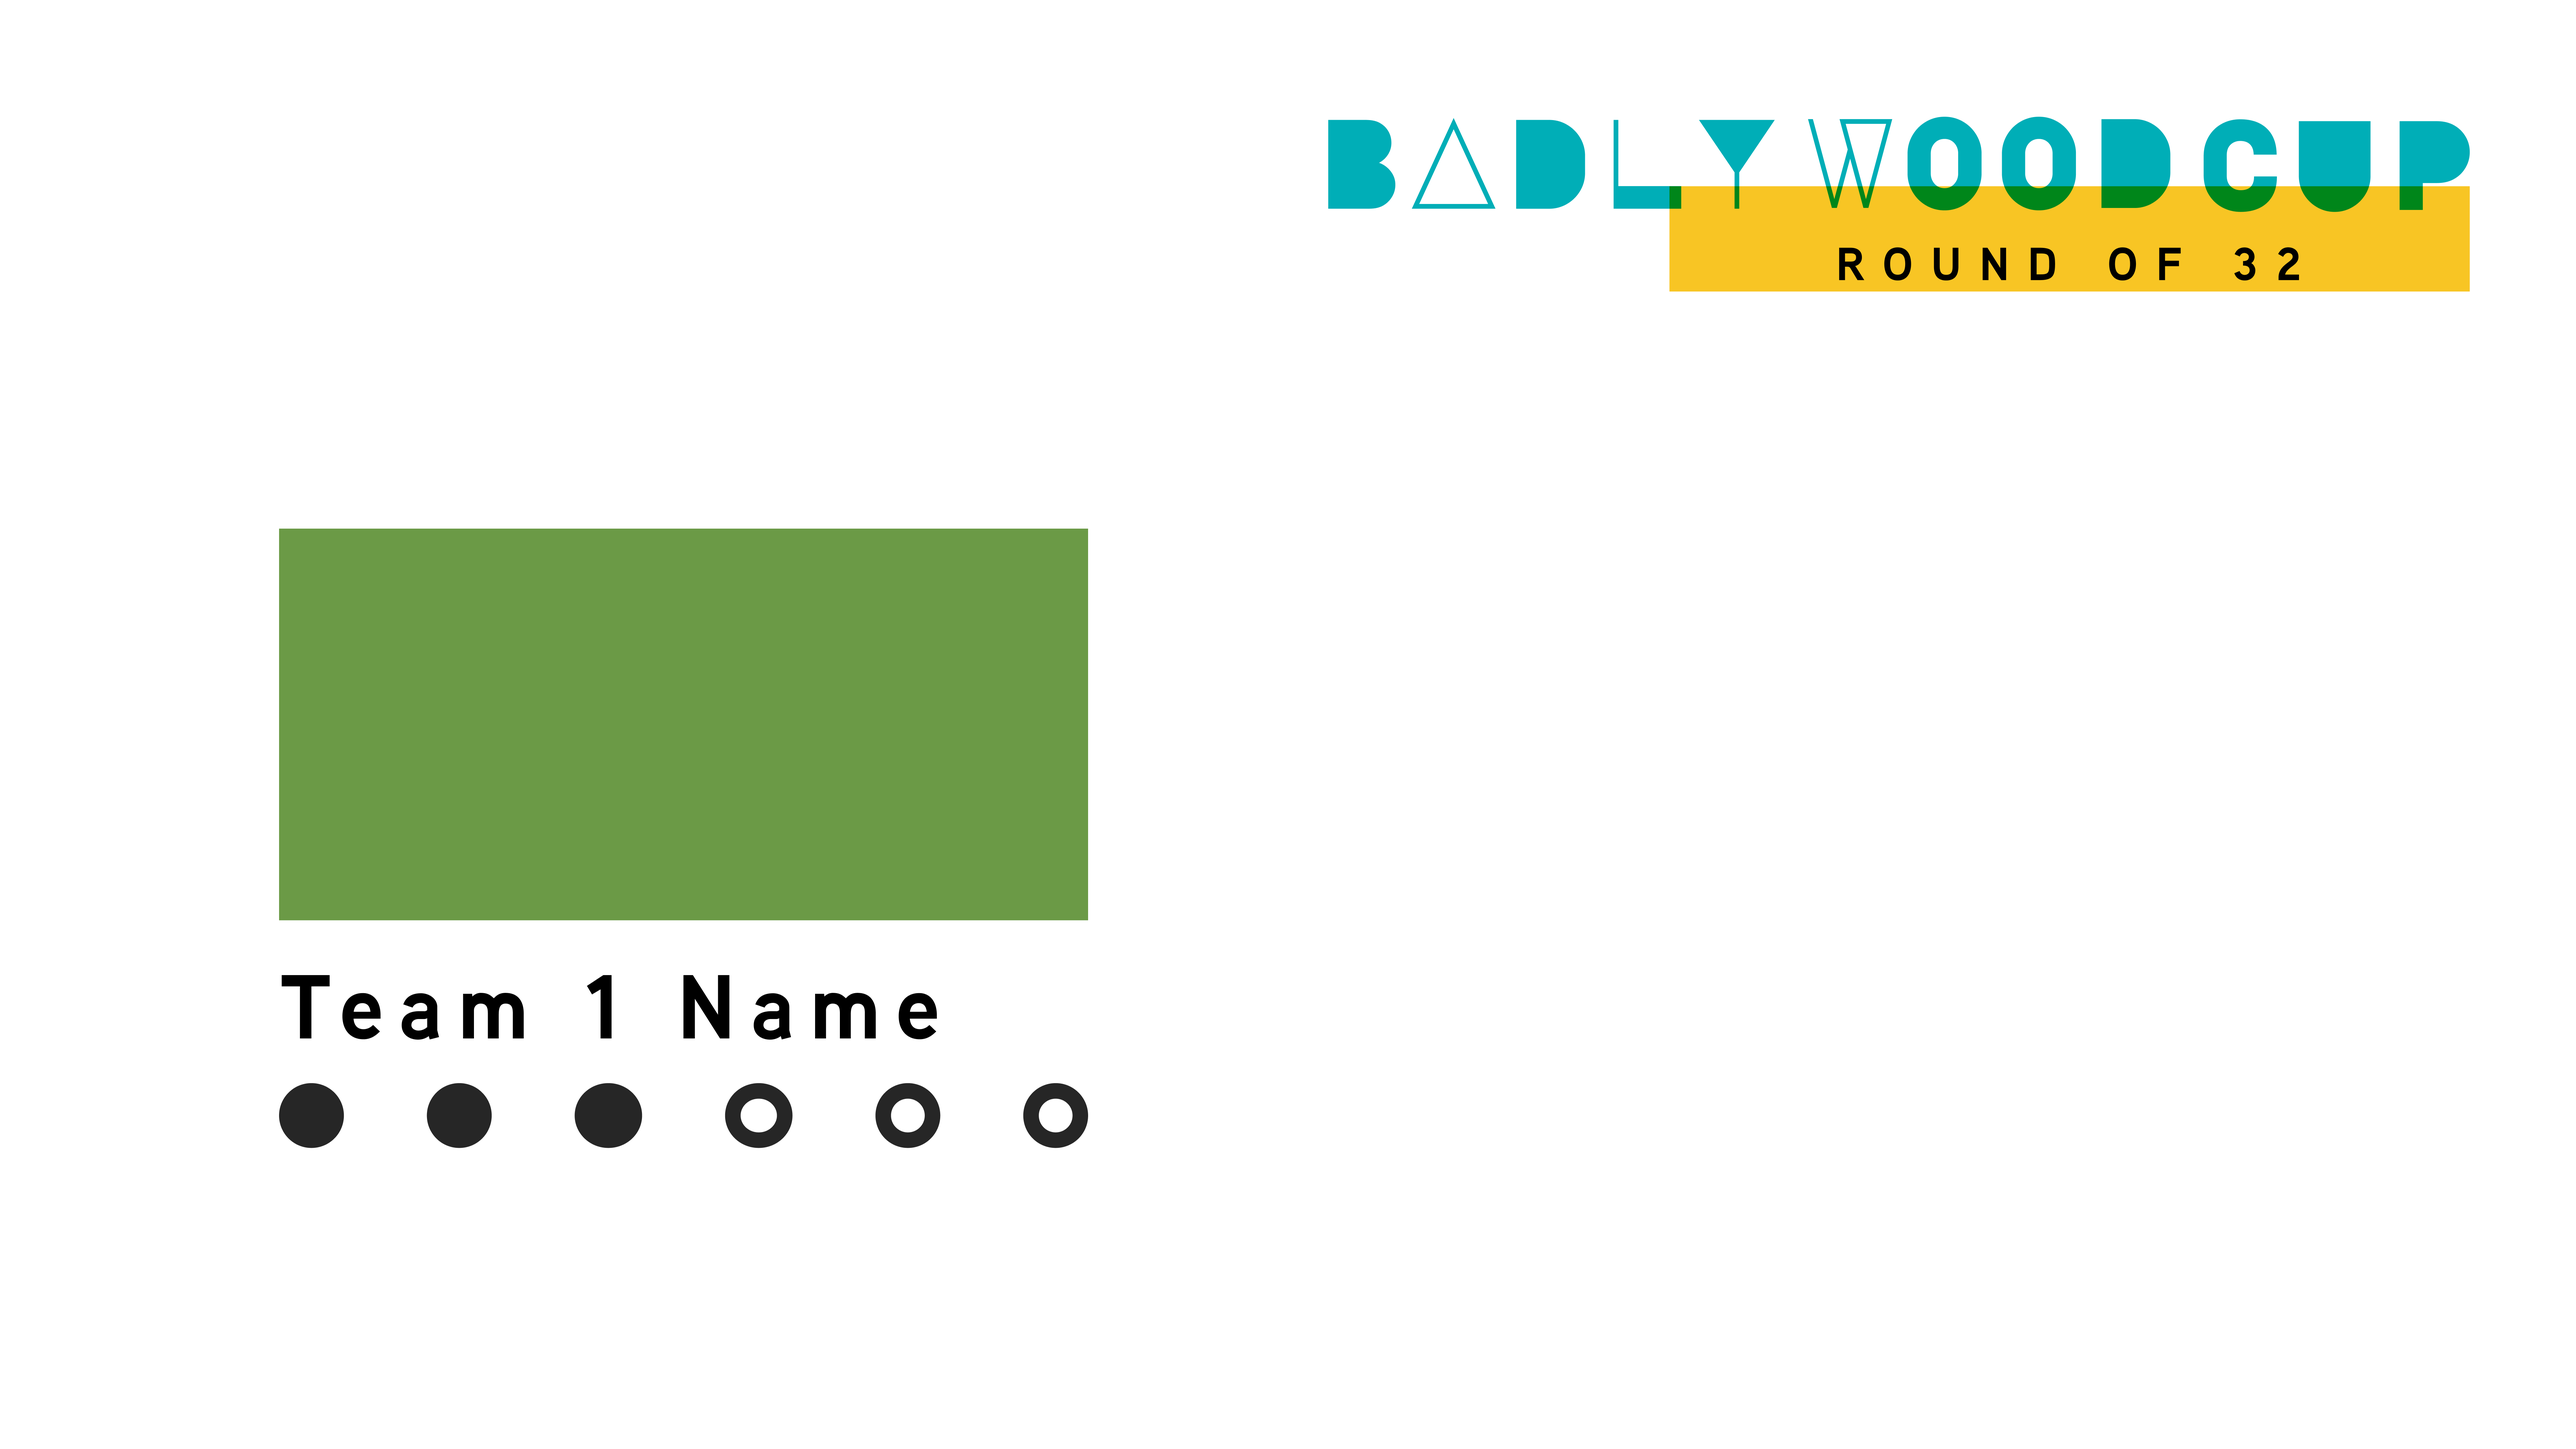
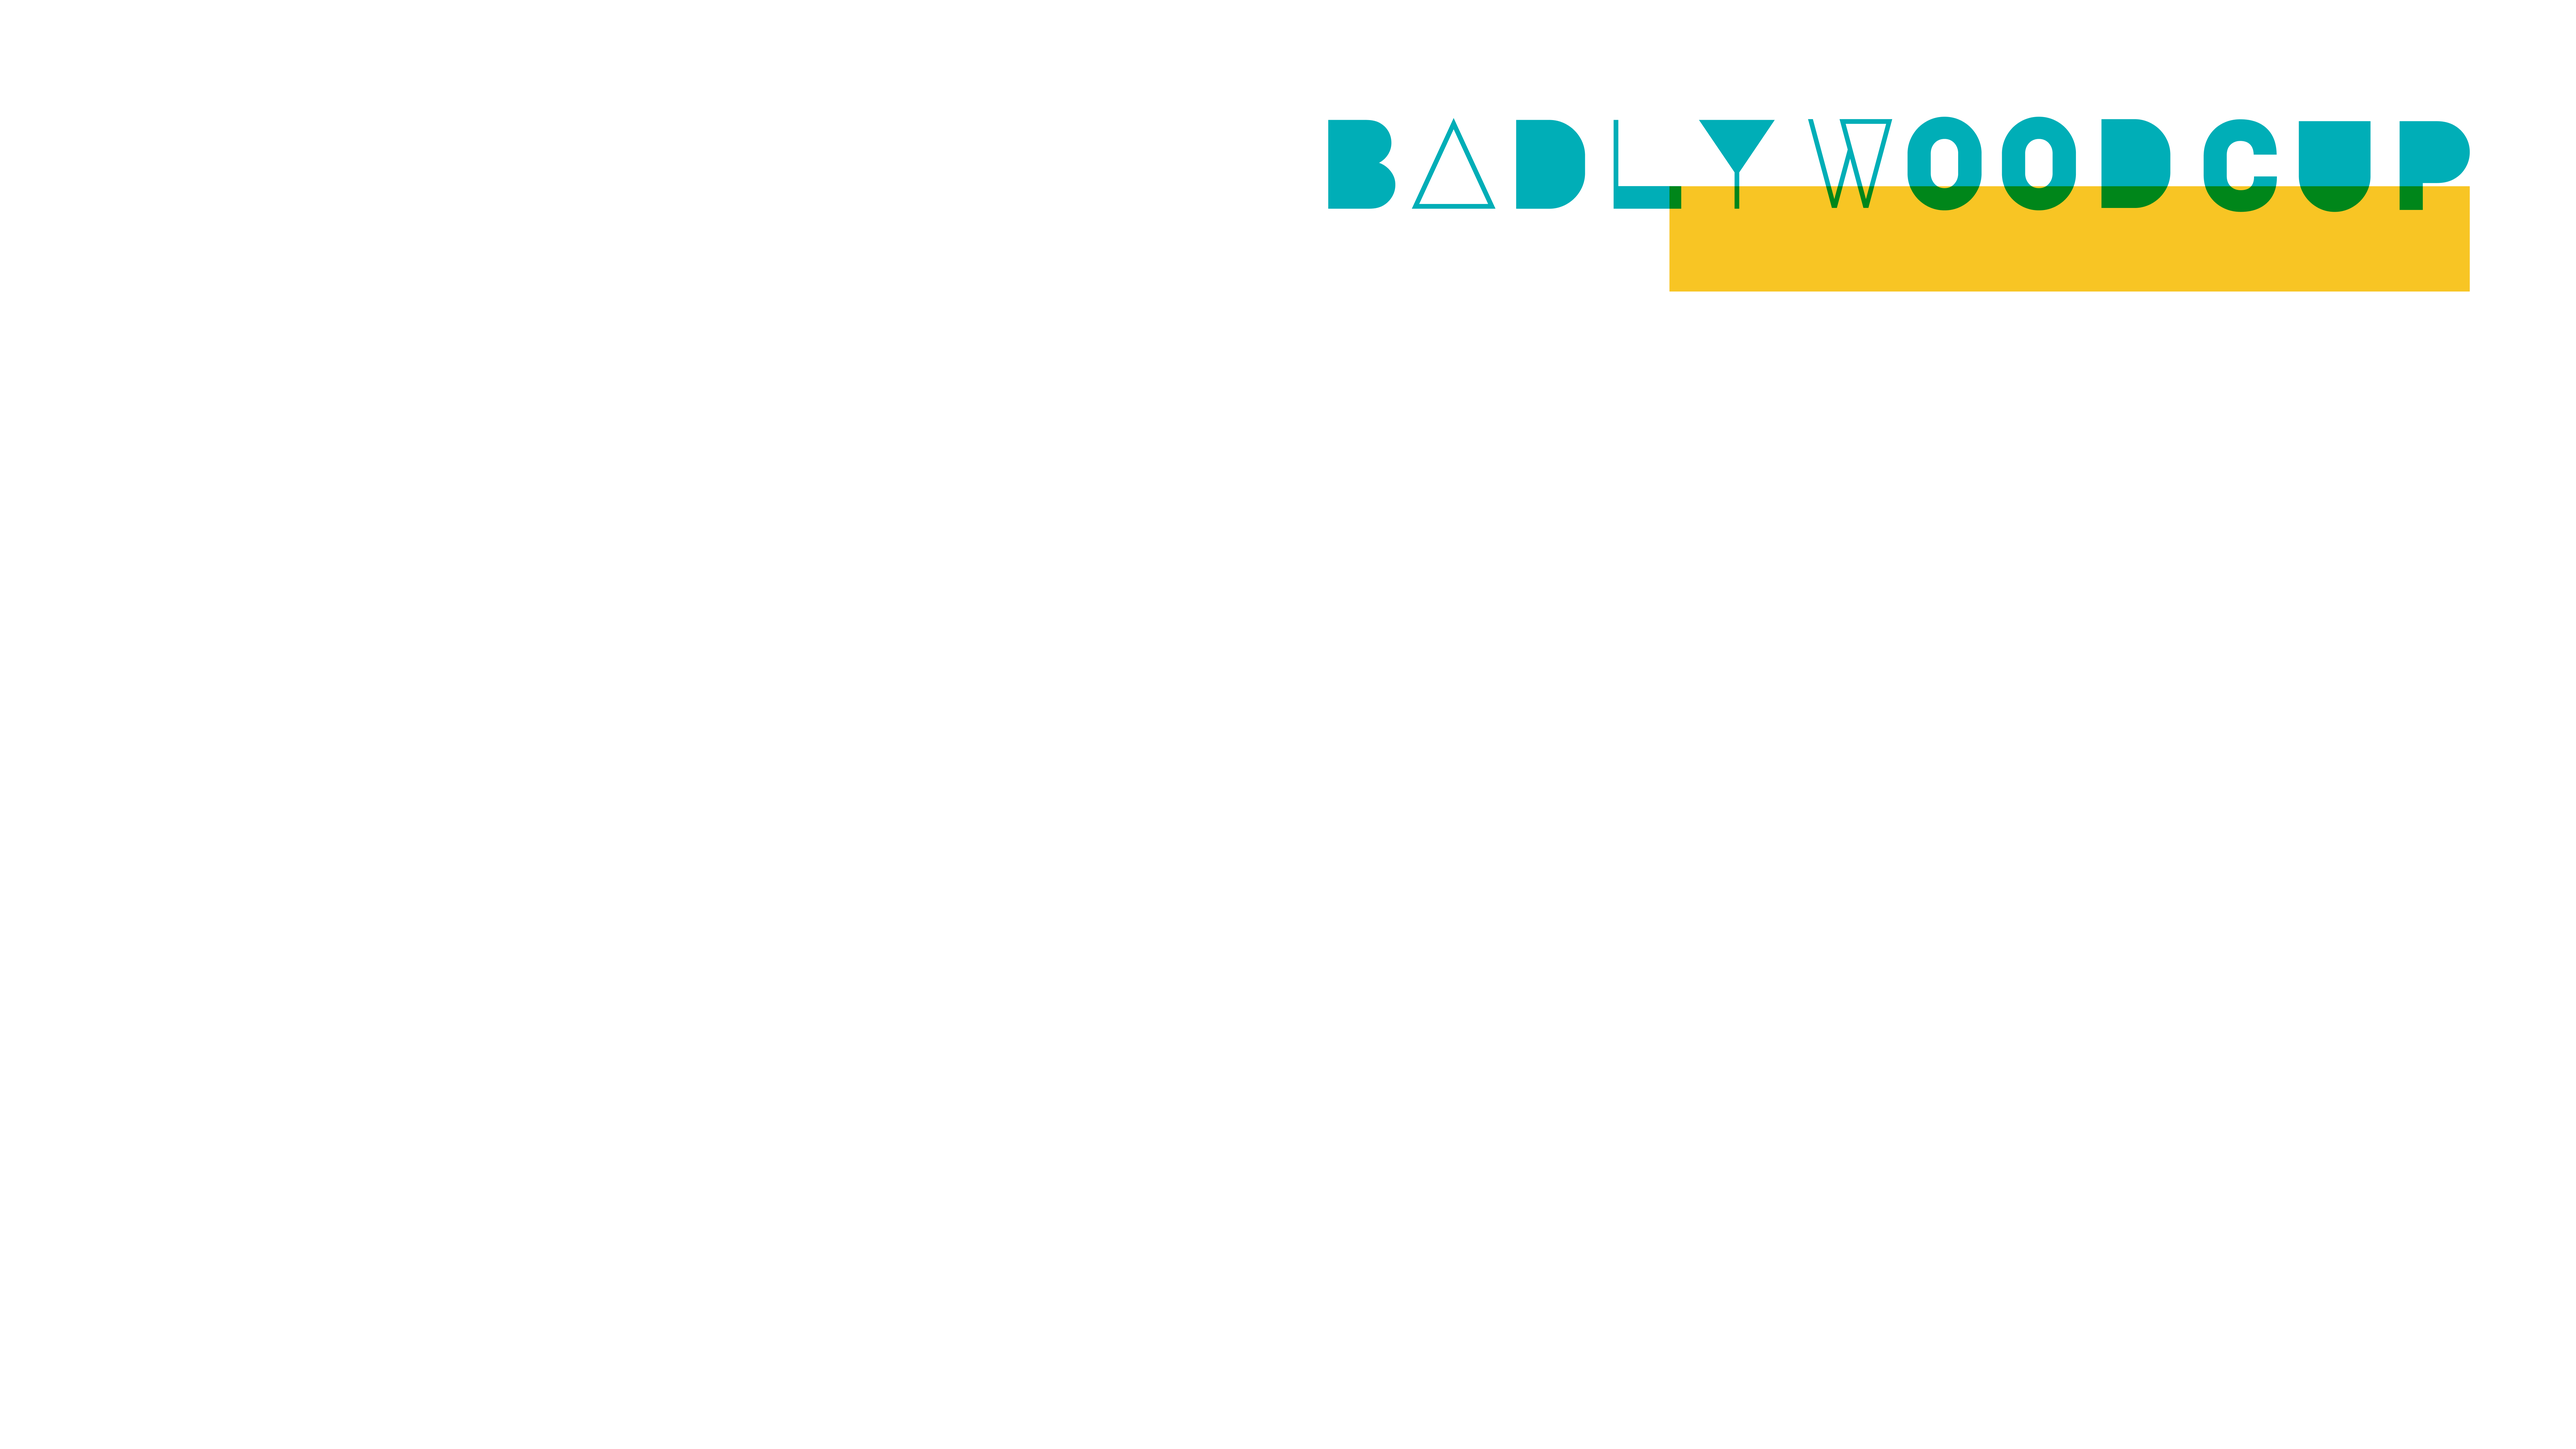
Add styling to everything

diff --git a/team-win/style.css b/team-win/style.css
@@ -1,7 +1,59 @@
+:root {
+    --starColour: #262626;
+}
+
+@font-face {
+    font-family: "Aaux Next";
+    font-weight: 800;
+    src: url("../fonts/Aaux\ Next\ Bold.otf")
+}
+.leftAlign { left: 208px; }
+
+/* Whole page */
 #main {
     position: absolute; left: 0; top: 0;
     width: 1920px; height: 1080px;
     background-size: cover;
     background-image: url("static/background.png");
     overflow: hidden;
+    font-family: "Aaux Next"; font-weight: 800;
 }
+
+/* Round Name */
+#roundName {
+    position: absolute; left: 1244.3px; top: 170.8px;
+    font-size: 34.53px;
+    letter-spacing: 13.4667px;
+    width: 596.51px;
+    text-align: center;
+    text-indent: 6.73335px;
+}
+
+/* Team Banner */
+#teamBanner {
+    position: absolute; top: 394px;
+    width: 603px; height: 291.94px;
+    background-size: cover;
+    background-position: center;
+    background-color: #86C158;
+}
+
+/* Team Name */
+#teamName {
+    position: absolute; top: 701px;
+    font-size: 67.64px;
+    letter-spacing: 10.7854px;
+}
+
+/* Team Stars */
+#teamStars {
+    position: absolute; top: 807.3px;
+    display: flex;
+}
+.teamStar {
+    width: 48.32px; height: 48.32px;
+    box-shadow: inset 0 0 0 11.66px var(--starColour);
+    border-radius: 48.32px;
+    margin-right: 62.7px;
+}
+.teamStarFill { background-color: var(--starColour); }

diff --git a/team-win/index.html b/team-win/index.html
@@ -8,7 +8,19 @@
     <link rel="stylesheet" href="style.css">
 </head>
 <body>
-    <div id="main"></div>
+    <div id="main">
+        <div id="roundName">ROUND OF 32</div>
+        <div class="leftAlign" id="teamBanner"></div>
+        <div class="leftAlign" id="teamName">Team 1 Name</div>
+        <div class="leftAlign" id="teamStars">
+            <div class="teamStar teamStarFill"></div>
+            <div class="teamStar teamStarFill"></div>
+            <div class="teamStar teamStarFill"></div>
+            <div class="teamStar"></div>
+            <div class="teamStar"></div>
+            <div class="teamStar"></div>
+        </div>
+    </div>
 
     <script src="index.js"></script>
 </body>
